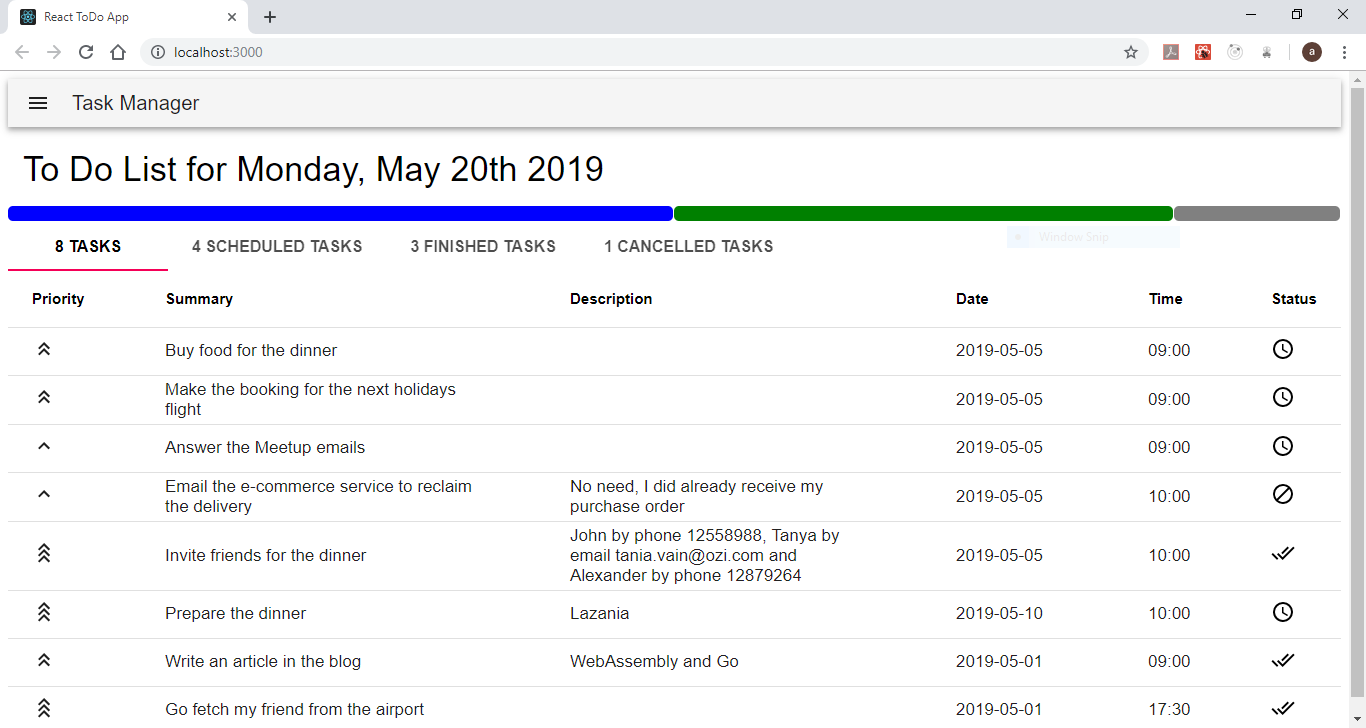
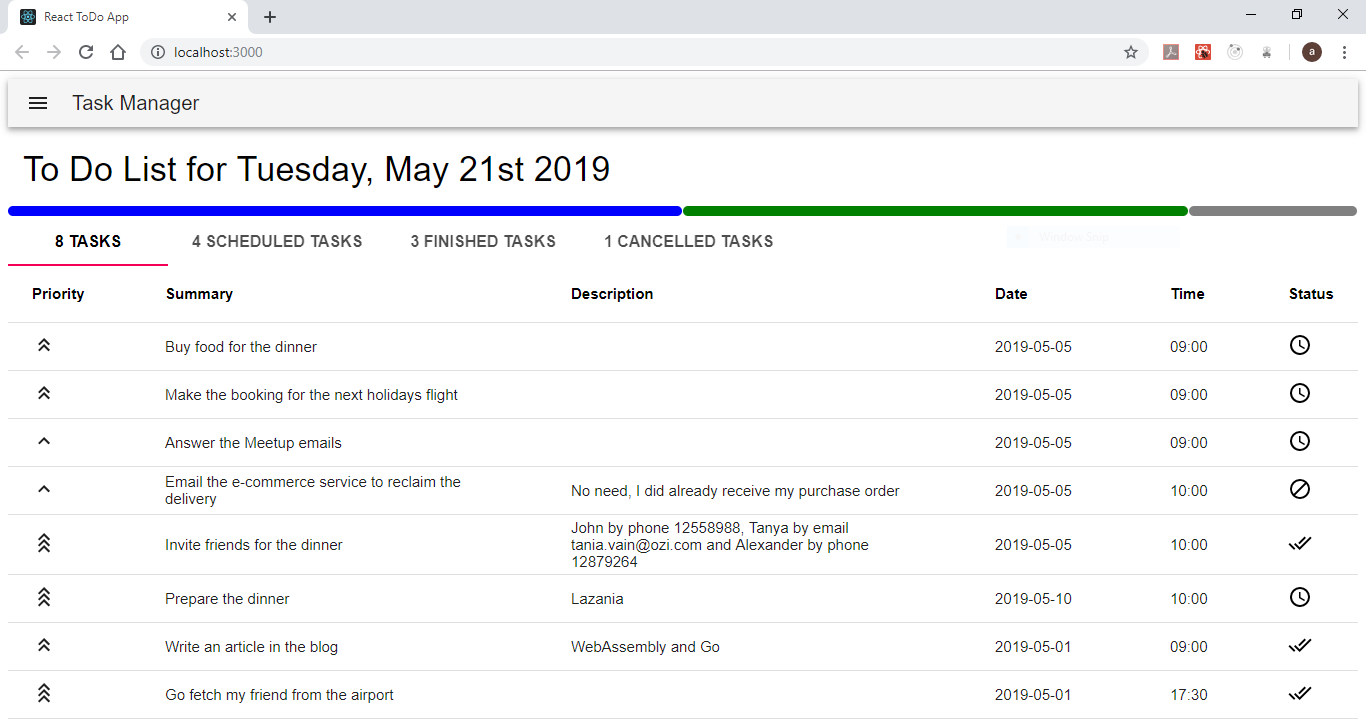
Enhance the GUI's look

diff --git a/3-project/task-manager-gui/task-manager-web-app/src/components/TaskManagement/TasksTable/TasksTable.styles.js b/3-project/task-manager-gui/task-manager-web-app/src/components/TaskManagement/TasksTable/TasksTable.styles.js
@@ -3,10 +3,10 @@ const styles = {
     width: '5%',
   },
   summaryColumn: {
-    width: '40%',
+    width: '43%',
   },
   descriptionColumn: {
-    width: '35%',
+    width: '42%',
   },
   dateColumn: {
     width: '17%',
@@ -23,7 +23,7 @@ const styles = {
     color: 'black',
   },
   rowContent: {
-    fontSize: '17px',
+    fontSize: '15px',
   },
 };
 

diff --git a/3-project/task-manager-gui/task-manager-web-app/src/components/TaskManagement/TasksProgressIndicator/TasksProgressIndicator.module.css b/3-project/task-manager-gui/task-manager-web-app/src/components/TaskManagement/TasksProgressIndicator/TasksProgressIndicator.module.css
@@ -1,7 +1,7 @@
 .mainContainer {
   display: flex;
   flex-direction: row;
-  height: 15px;
+  height: 10px;
   margin-top: 2px;
   margin-bottom: 2px;
 }
